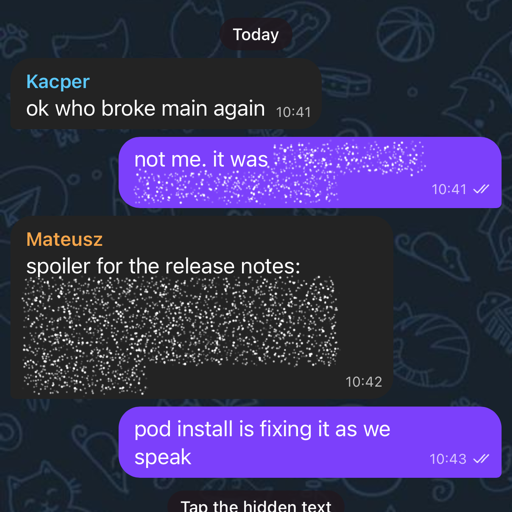
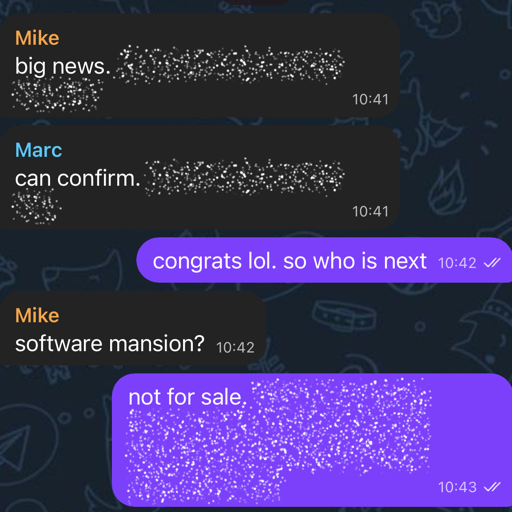
fix: rewrite the telegram spoiler chat around the margelo deal
The old copy was filler. The group is now Mike, Marc and me: Mike
breaks the news that Callstack bought Margelo behind a spoiler, Marc
confirms behind another, Software Mansion is declared not for sale,
and the rule that an RN agency founder's name has to start with M is
hidden as the punchline. Thumbnail recaptured.

Claude-Session: https://claude.ai/code/session_01MYgJDumHFGETXWCh37fS7V

diff --git a/example/src/screens/TelegramSpoilerScreen.tsx b/example/src/screens/TelegramSpoilerScreen.tsx
@@ -51,33 +51,54 @@ type Message = {
 const MESSAGES: Message[] = [
   {
     id: 'm1',
-    from: { name: 'Kacper', color: SENDER_COLORS[0]! },
-    parts: ['ok who broke main again'],
+    from: { name: 'Mike', color: SENDER_COLORS[1]! },
+    parts: ['big news. ', { spoiler: 'callstack just bought margelo' }],
     time: '10:41',
   },
   {
     id: 'm2',
-    from: 'me',
-    parts: ['not me. it was ', { spoiler: 'the one who force-pushed at 2am' }],
+    from: { name: 'Marc', color: SENDER_COLORS[0]! },
+    parts: ['can confirm. ', { spoiler: 'i work for mike now' }],
     time: '10:41',
   },
   {
     id: 'm3',
-    from: { name: 'Mateusz', color: SENDER_COLORS[1]! },
-    parts: [
-      'spoiler for the release notes: ',
-      {
-        spoiler:
-          'the New Architecture is now the only architecture, the Bridge is gone and there is no flag to bring it back',
-      },
-    ],
+    from: 'me',
+    parts: ['congrats lol. so who is next'],
     time: '10:42',
   },
   {
     id: 'm4',
+    from: { name: 'Mike', color: SENDER_COLORS[1]! },
+    parts: ['software mansion?'],
+    time: '10:42',
+  },
+  {
+    id: 'm5',
     from: 'me',
-    parts: ['pod install is fixing it as we speak'],
+    parts: [
+      'not for sale. ',
+      {
+        spoiler:
+          'we asked ourselves, we laughed, then shipped another reanimated release instead',
+      },
+    ],
     time: '10:43',
+  },
+  {
+    id: 'm6',
+    from: { name: 'Marc', color: SENDER_COLORS[0]! },
+    parts: ['marc, marcin, mike. anyone else noticed'],
+    time: '10:44',
+  },
+  {
+    id: 'm7',
+    from: 'me',
+    parts: [
+      'yep. want to found an rn agency? ',
+      { spoiler: 'your name has to start with M. no exceptions' },
+    ],
+    time: '10:44',
   },
 ];
 
@@ -329,7 +350,7 @@ export default function TelegramSpoilerScreen() {
             <Icon source={ICONS.back} size={22} />
           </Pressable>
           <View style={styles.titlePill}>
-            <Text style={styles.title}>RN Core Team (unofficial)</Text>
+            <Text style={styles.title}>RN Agencies (unofficial)</Text>
             <Text style={styles.subtitle}>3 members</Text>
           </View>
           <Image source={TG_AVATAR_PHOTO} style={styles.avatar} />
